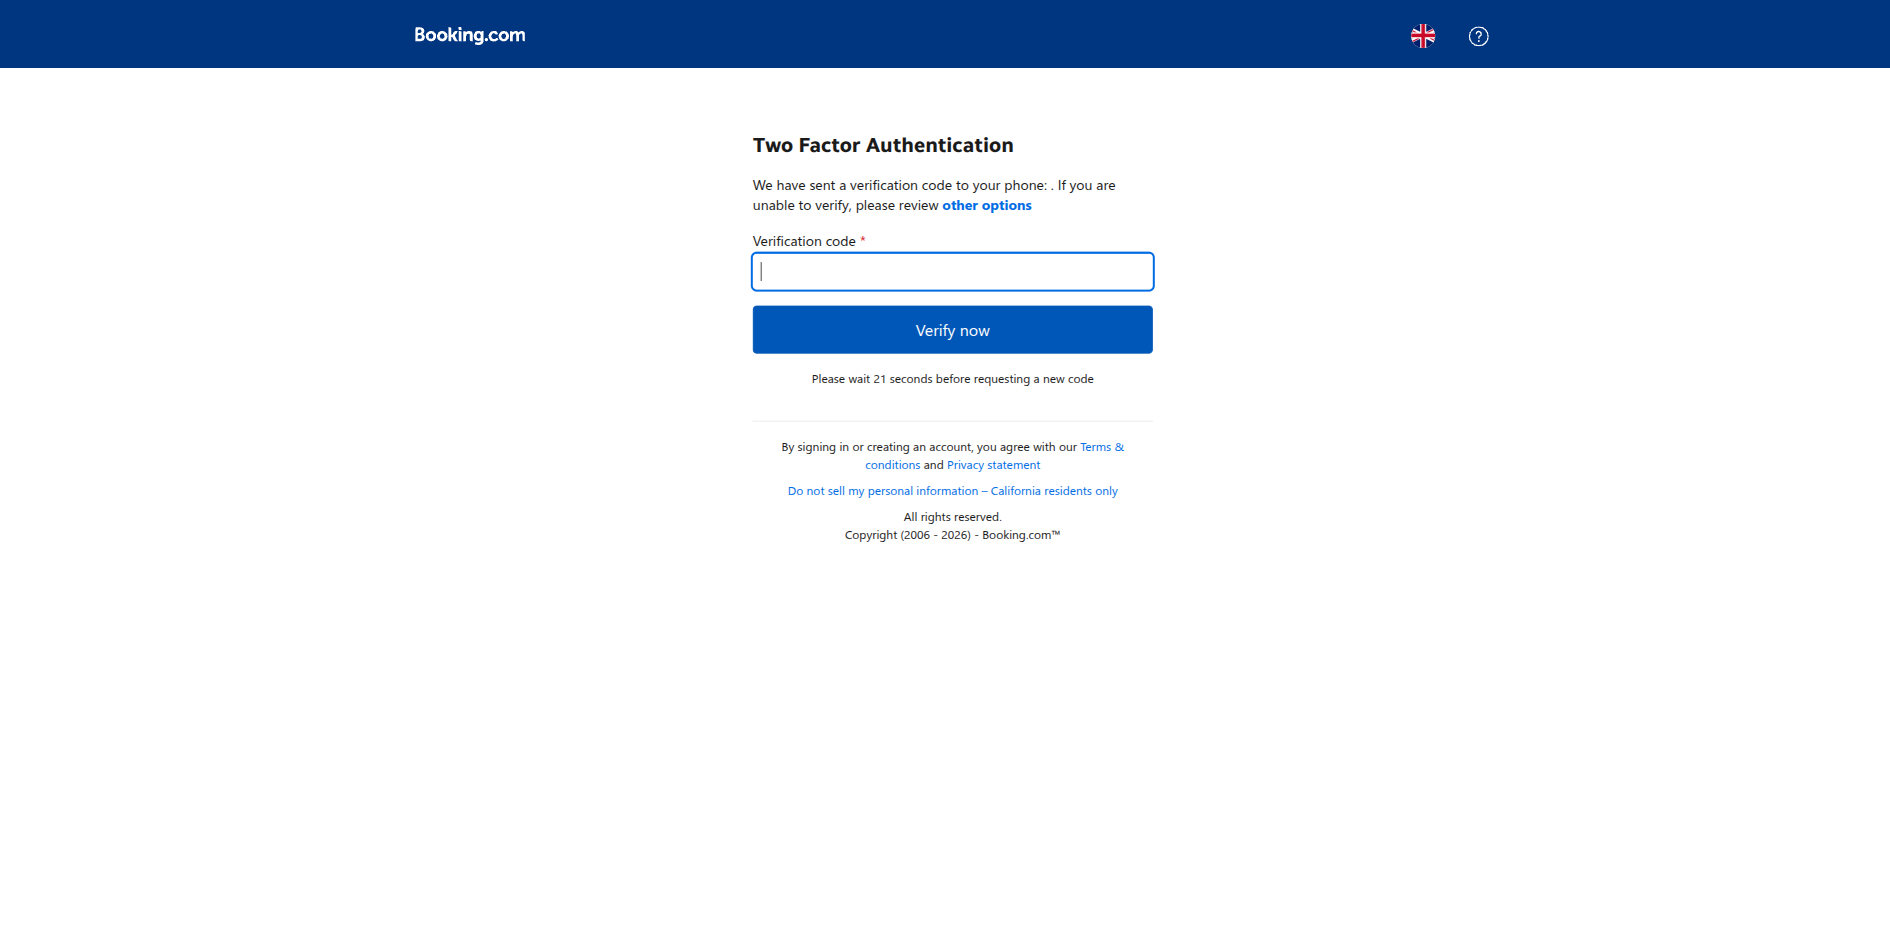
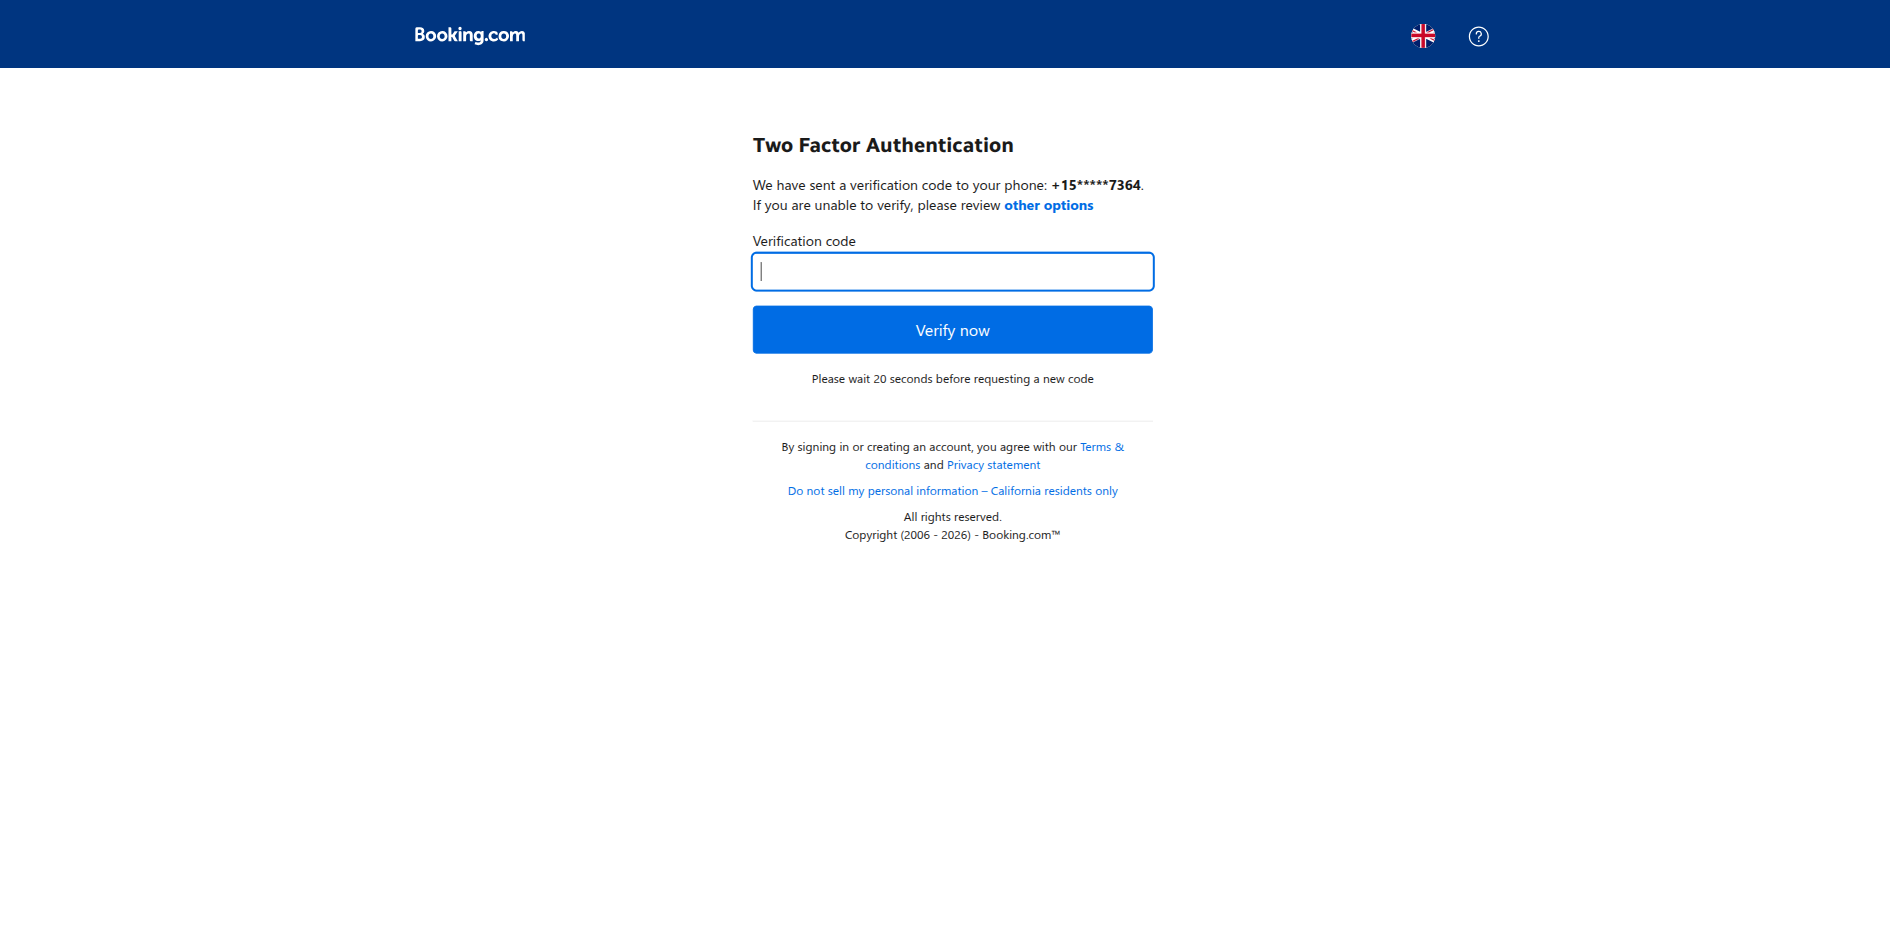
added new apis for cookie

Changed region(s): [[0.3746, 0.3069, 0.6243, 0.3989], [0.4058, 0.1841, 0.5931, 0.2455]]

diff --git a/src/routes/shared/cookie-storage.routes.ts b/src/routes/shared/cookie-storage.routes.ts
@@ -1,0 +1,274 @@
+import express from "express";
+import { Types } from "mongoose";
+import { PlatformsType } from "../../common/booking-error-types.js";
+import { Property } from "../../models/property.model.js";
+import {
+  cookieStorageService,
+  CookieData,
+} from "../../services/cookie-storage.service.js";
+
+const router = express.Router();
+
+function isValidObjectId(id: string): boolean {
+  return Types.ObjectId.isValid(id) && new Types.ObjectId(id).toString() === id;
+}
+
+function parsePlatform(value: unknown): PlatformsType | null {
+  if (typeof value !== "string") {
+    return null;
+  }
+  const platform = value.toLowerCase();
+  if (Object.values(PlatformsType).includes(platform as PlatformsType)) {
+    return platform as PlatformsType;
+  }
+  return null;
+}
+
+function validateCookies(cookies: unknown): cookies is CookieData[] {
+  if (!Array.isArray(cookies) || cookies.length === 0) {
+    return false;
+  }
+
+  return cookies.every(
+    (cookie) =>
+      cookie &&
+      typeof cookie === "object" &&
+      typeof cookie.name === "string" &&
+      cookie.name.trim() !== "" &&
+      typeof cookie.value === "string"
+  );
+}
+
+/**
+ * @swagger
+ * /api/properties/{propertyId}/cookies:
+ *   get:
+ *     tags:
+ *       - Cookie Storage
+ *     summary: Get decrypted cookies for a property
+ *     description: Retrieve and decrypt stored cookies for a property and platform
+ *     parameters:
+ *       - in: path
+ *         name: propertyId
+ *         required: true
+ *         schema:
+ *           type: string
+ *         description: MongoDB property ID
+ *       - in: query
+ *         name: platform
+ *         required: false
+ *         schema:
+ *           type: string
+ *           enum: [booking]
+ *           default: booking
+ *         description: Platform to load cookies for
+ *     responses:
+ *       200:
+ *         description: Cookies retrieved successfully
+ *       404:
+ *         description: Property or cookies not found
+ *       400:
+ *         description: Invalid request parameters
+ *       500:
+ *         description: Server error
+ */
+router.get("/:propertyId/cookies", (async (
+  req: express.Request,
+  res: express.Response
+) => {
+  try {
+    const { propertyId } = req.params;
+    const platform = parsePlatform(req.query.platform ?? PlatformsType.BOOKING);
+
+    if (!isValidObjectId(propertyId)) {
+      return res.status(400).json({
+        status: 400,
+        message: "Invalid propertyId",
+      });
+    }
+
+    if (!platform) {
+      return res.status(400).json({
+        status: 400,
+        message: `Invalid platform. Must be one of: ${Object.values(PlatformsType).join(", ")}`,
+      });
+    }
+
+    const property = await Property.findById(propertyId).select("_id property_name").lean();
+    if (!property) {
+      return res.status(404).json({
+        status: 404,
+        message: `Property with ID ${propertyId} not found`,
+      });
+    }
+
+    const cookies = await cookieStorageService.loadCookies(propertyId, platform);
+    if (!cookies) {
+      return res.status(404).json({
+        status: 404,
+        message: `No active cookies found for property ${propertyId} on platform ${platform}`,
+      });
+    }
+
+    return res.status(200).json({
+      status: 200,
+      message: "Cookies retrieved successfully",
+      data: {
+        propertyId,
+        propertyName: property.property_name,
+        platform,
+        cookies,
+        cookieCount: cookies.length,
+      },
+    });
+  } catch (err: any) {
+    console.error("Error getting cookies:", err);
+    return res.status(500).json({
+      status: 500,
+      message: "Error retrieving cookies",
+      error: err.message,
+    });
+  }
+}) as any);
+
+/**
+ * @swagger
+ * /api/properties/{propertyId}/cookies:
+ *   put:
+ *     tags:
+ *       - Cookie Storage
+ *     summary: Create or update cookies for a property
+ *     description: Encrypt and store cookies for a property and platform (upsert)
+ *     parameters:
+ *       - in: path
+ *         name: propertyId
+ *         required: true
+ *         schema:
+ *           type: string
+ *         description: MongoDB property ID
+ *     requestBody:
+ *       required: true
+ *       content:
+ *         application/json:
+ *           schema:
+ *             type: object
+ *             required:
+ *               - cookies
+ *             properties:
+ *               platform:
+ *                 type: string
+ *                 enum: [booking]
+ *                 default: booking
+ *               cookies:
+ *                 type: array
+ *                 minItems: 1
+ *                 items:
+ *                   type: object
+ *                   required:
+ *                     - name
+ *                     - value
+ *                   properties:
+ *                     name:
+ *                       type: string
+ *                     value:
+ *                       type: string
+ *                     domain:
+ *                       type: string
+ *                     path:
+ *                       type: string
+ *                     expires:
+ *                       type: number
+ *                     httpOnly:
+ *                       type: boolean
+ *                     secure:
+ *                       type: boolean
+ *                     sameSite:
+ *                       type: string
+ *                       enum: [Strict, Lax, None]
+ *     responses:
+ *       200:
+ *         description: Cookies saved successfully
+ *       404:
+ *         description: Property not found
+ *       400:
+ *         description: Invalid request body
+ *       500:
+ *         description: Server error
+ */
+router.put("/:propertyId/cookies", (async (
+  req: express.Request,
+  res: express.Response
+) => {
+  try {
+    const { propertyId } = req.params;
+    const { cookies } = req.body;
+    const platform = parsePlatform(req.body.platform ?? PlatformsType.BOOKING);
+
+    if (!isValidObjectId(propertyId)) {
+      return res.status(400).json({
+        status: 400,
+        message: "Invalid propertyId",
+      });
+    }
+
+    if (!platform) {
+      return res.status(400).json({
+        status: 400,
+        message: `Invalid platform. Must be one of: ${Object.values(PlatformsType).join(", ")}`,
+      });
+    }
+
+    if (!validateCookies(cookies)) {
+      return res.status(400).json({
+        status: 400,
+        message:
+          "cookies must be a non-empty array where each item has name and value strings",
+      });
+    }
+
+    const property = await Property.findById(propertyId).select("_id property_name").lean();
+    if (!property) {
+      return res.status(404).json({
+        status: 404,
+        message: `Property with ID ${propertyId} not found`,
+      });
+    }
+
+    const saved = await cookieStorageService.saveCookies(
+      propertyId,
+      platform,
+      cookies
+    );
+
+    if (!saved) {
+      return res.status(500).json({
+        status: 500,
+        message: "Failed to save cookies",
+      });
+    }
+
+    return res.status(200).json({
+      status: 200,
+      message: "Cookies saved successfully",
+      data: {
+        id: saved._id,
+        propertyId,
+        propertyName: property.property_name,
+        platform,
+        cookieCount: cookies.length,
+        expiresAt: saved.expires_at,
+        lastUsed: saved.last_used,
+        isActive: saved.is_active,
+      },
+    });
+  } catch (err: any) {
+    console.error("Error saving cookies:", err);
+    return res.status(500).json({
+      status: 500,
+      message: "Error saving cookies",
+      error: err.message,
+    });
+  }
+}) as any);
+
+export default router;

diff --git a/src/app/app.ts b/src/app/app.ts
@@ -24,6 +24,7 @@ import { bookingTrustScheduler } from "../services/booking-trust-scheduler.servi
 import { propertyCredentialsService } from "../services/job-credentials.service.js";
 import { propertyCredentialsService as propertyPasswordUpdateService } from "../services/property-credentials.service.js";
 import { jobService } from "../services/job.service.js";
+import cookieStorageRoutes from "../routes/shared/cookie-storage.routes.js";
 
 // Ensure main thread ID is set for API routes and system tasks
 if (isMainThread) {
@@ -1907,6 +1908,8 @@ app.post("/api/booking/trust-scheduler/cron/trigger", (async (
     });
   }
 }) as any);
+
+app.use("/api/properties", cookieStorageRoutes);
 
 // * Global error handle middleware
 app.use((err: any, req: any, res: any, next: any) => {

diff --git a/src/config/swagger.ts b/src/config/swagger.ts
@@ -180,6 +180,10 @@ const options: swaggerJsdoc.Options = {
         name: "Job Monitoring",
         description: "Endpoints for monitoring job progress and results",
       },
+      {
+        name: "Cookie Storage",
+        description: "Endpoints for managing encrypted property cookies",
+      },
     ],
     paths: loadYamlDocs(),
   },
